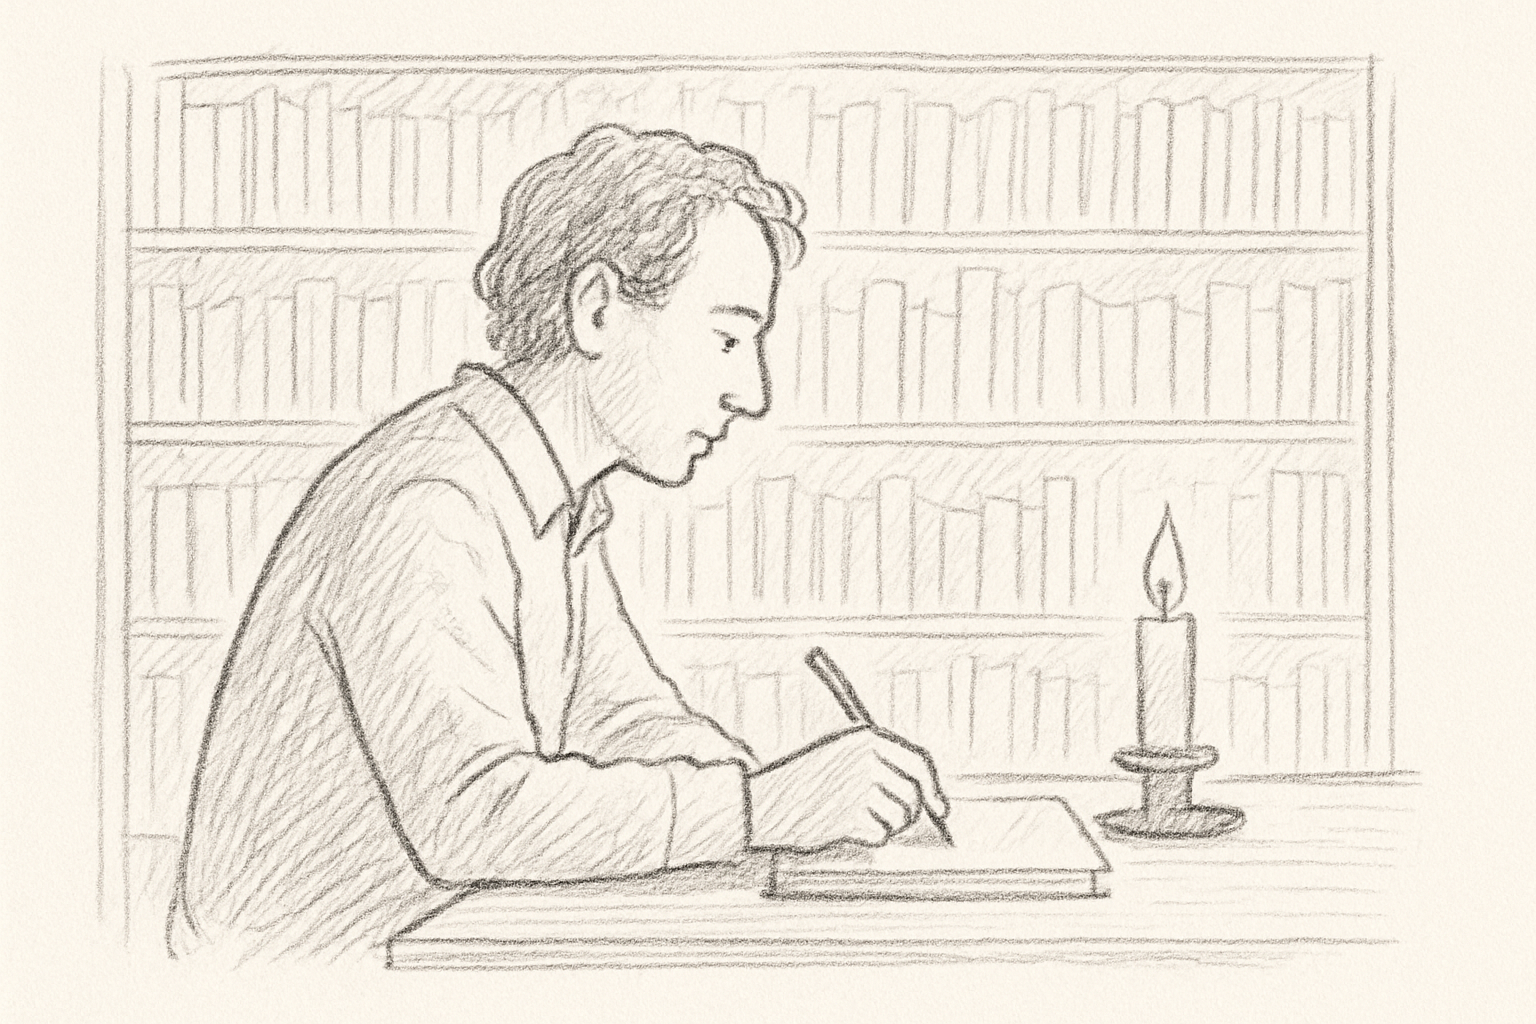
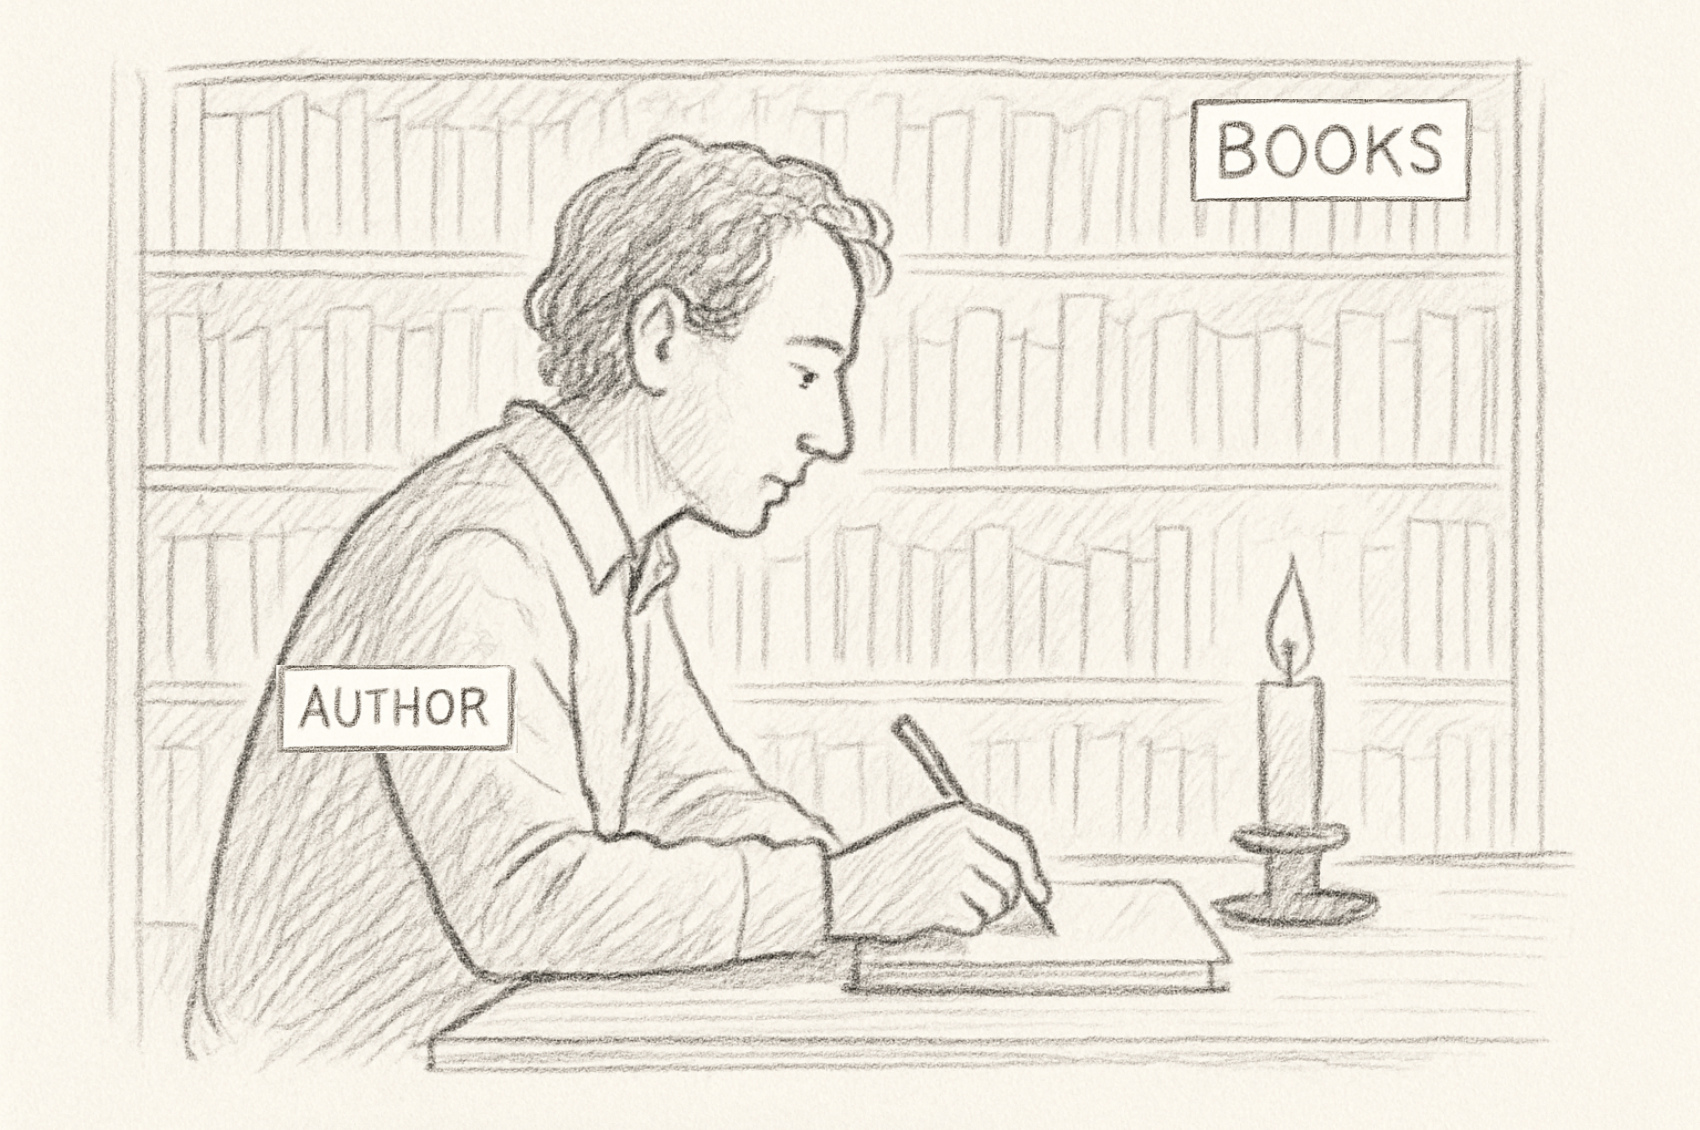
books page

diff --git a/books.html b/books.html
@@ -4,16 +4,103 @@
     <meta charset="UTF-8">
     <meta name="viewport" content="width=device-width, initial-scale=1.0">
     <title>Books</title>
+    <style>
+        body {
+            font-family: -apple-system, BlinkMacSystemFont, 'Segoe UI', Roboto, sans-serif;
+            margin: 0;
+            padding: 2rem;
+            line-height: 1.6;
+        }
+        
+        .books-container {
+            display: flex;
+            gap: 2rem;
+            max-width: 1200px;
+            margin: 2rem auto;
+        }
+        
+        .book {
+            flex: 1;
+            padding: 1.5rem;
+            border: 1px solid #ddd;
+            border-radius: 8px;
+            text-align: center;
+        }
+        
+        .book img {
+            width: 200px;
+            height: 300px;
+            object-fit: cover;
+            border-radius: 4px;
+            margin-bottom: 1rem;
+        }
+        
+        .book h2 {
+            margin: 0 0 1rem 0;
+            color: #333;
+        }
+        
+        .book p {
+            color: #666;
+            margin-bottom: 1.5rem;
+        }
+        
+        .buy-btn {
+            display: inline-block;
+            background: #007bff;
+            color: white;
+            padding: 0.75rem 1.5rem;
+            text-decoration: none;
+            border-radius: 4px;
+            transition: background 0.3s;
+        }
+        
+        .buy-btn:hover {
+            background: #0056b3;
+        }
+        
+        nav {
+            text-align: center;
+            margin-bottom: 2rem;
+        }
+        
+        nav a {
+            color: #007bff;
+            text-decoration: none;
+            margin: 0 1rem;
+        }
+        
+        nav a:hover {
+            text-decoration: underline;
+        }
+        
+        @media (max-width: 768px) {
+            .books-container {
+                flex-direction: column;
+            }
+        }
+    </style>
 </head>
 <body>
     <h1>Books</h1>
     <nav>
-        <a href="index.html">Home</a> | 
-        <a href="author.html">Author</a>
+        <a href="index.html">Home</a>
     </nav>
-    <ul>
-        <li><a href="book1.html">Book 1</a></li>
-        <li><a href="book2.html">Book 2</a></li>
-    </ul>
+    
+    <div class="books-container">
+        <div class="book">
+            <img src="assets/images/book1.jpg" alt="Book 1 Cover">
+            <h2>The Mystery of Time</h2>
+            <p>A thrilling adventure through the corridors of history, where ancient secrets meet modern mysteries. Follow our protagonist as they uncover hidden truths that could change everything we know about the past.</p>
+            <a href="https://google.com" class="buy-btn">Buy Now</a>
+        </div>
+        
+        <div class="book">
+            <img src="assets/images/book2.jpg" alt="Book 2 Cover">
+            <h2>Beyond the Horizon</h2>
+            <p>An epic tale of discovery and courage that spans continents and generations. A story of love, loss, and the unbreakable bonds that connect us across time and space.</p>
+            <a href="https://google.com" class="buy-btn">Buy Now</a>
+        </div>
+    </div>
 </body>
 </html>

diff --git a/index.html b/index.html
@@ -40,19 +40,19 @@
         <polygon points="
             80,0 1580,80 1580,1200, 80,1200
         " 
-            fill="rgba(0,255,0,0.2)"
+            fill="transparent"
             onclick="location.href='books.html'"
             onmouseover="this.style.fill='rgba(0,255,0,0.4)'"
-            onmouseout="this.style.fill='rgba(0,255,0,0.2)'"/>
+            onmouseout="this.style.fill='transparent'"/>
 
          <!-- Author area - tighter fit around figure, shifted left/middle -->
         <polygon points="
             480,260  650,50  900,260  900,560, 700, 700, 1200,1200, 80,1200, 200,500
         " 
-            fill="rgba(255,0,0,0.2)" 
+            fill="transparent" 
             onclick="location.href='author.html'"
             onmouseover="this.style.fill='rgba(255,0,0,0.4)'"
-            onmouseout="this.style.fill='rgba(255,0,0,0.2)'"/>
+            onmouseout="this.style.fill='transparent'"/>
         
     </svg>
 </body>
